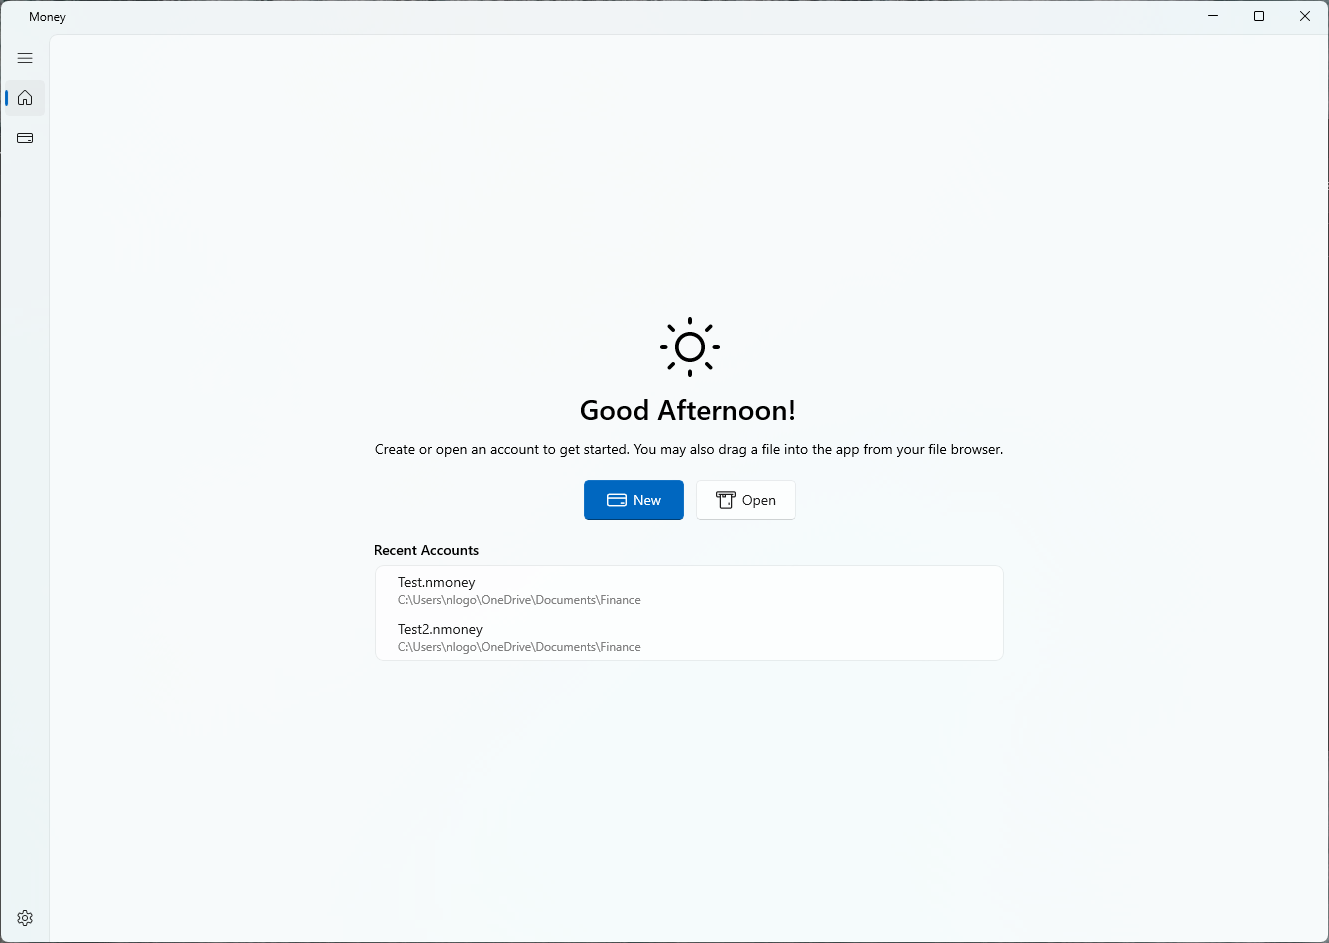
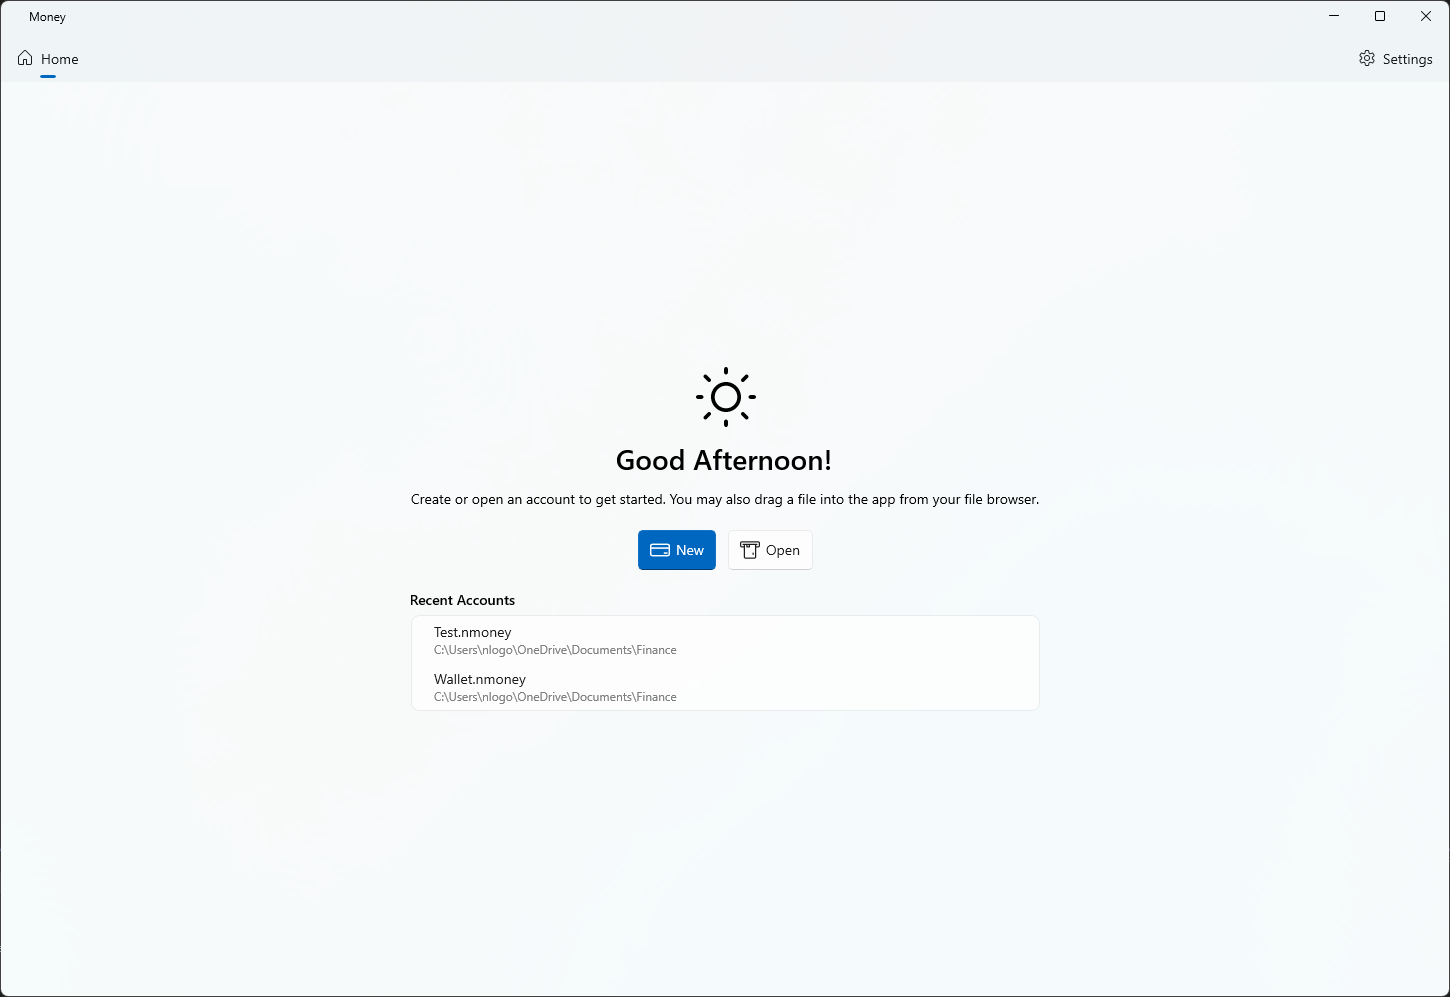
V2023.1.0-beta2

diff --git a/NickvisionMoney.GNOME/Program.cs b/NickvisionMoney.GNOME/Program.cs
@@ -70,8 +70,8 @@ public class Program
         mainWindowController.AppInfo.Name = "Nickvision Money";
         mainWindowController.AppInfo.ShortName = "Money";
         mainWindowController.AppInfo.Description = mainWindowController.Localizer["Description"];
-        mainWindowController.AppInfo.Version = "2023.1.0-beta1";
-        mainWindowController.AppInfo.Changelog = "<ul><li>Money has been completely rewritten in C#. Money should now be a lot more stable and responsive. With the C# rewrite, there is now a new version of Money available on Windows!</li><li>Added an \"Ungrouped\" row to the groups section to allow filtering transactions that don't belong to a group</li><li>Added the ability to attach a jpg/pdf of a receipt to a transaction</li><li>Made a group's description an optional field</li></ul>";
+        mainWindowController.AppInfo.Version = "2023.1.0-beta2";
+        mainWindowController.AppInfo.Changelog = "<ul><li>Money has been completely rewritten in C#. Money should now be a lot more stable and responsive. With the C# rewrite, there is now a new version of Money available on Windows!</li><li>Added an \"Ungrouped\" row to the groups section to allow filtering transactions that don't belong to a group</li><li>Added the ability to attach a jpg/pdf of a receipt to a transaction</li><li>Added the ability to hide the groups section</li><li>Made a group's description an optional field</li></ul>";
         mainWindowController.AppInfo.GitHubRepo = new Uri("https://github.com/nlogozzo/NickvisionMoney");
         mainWindowController.AppInfo.IssueTracker = new Uri("https://github.com/nlogozzo/NickvisionMoney/issues/new");
         mainWindowController.AppInfo.SupportUrl = new Uri("https://github.com/nlogozzo/NickvisionMoney/discussions");

diff --git a/NickvisionMoney.WinUI/App.xaml.cs b/NickvisionMoney.WinUI/App.xaml.cs
@@ -20,8 +20,8 @@ public partial class App : Application
         _mainWindowController.AppInfo.Name = "Nickvision Money";
         _mainWindowController.AppInfo.ShortName = "Money";
         _mainWindowController.AppInfo.Description = _mainWindowController.Localizer["Description"];
-        _mainWindowController.AppInfo.Version = "2023.1.0-beta1";
-        _mainWindowController.AppInfo.Changelog = "- Money has been completely rewritten in C#. Money should now be a lot more stable and responsive. With the C# rewrite, there is now a new version of Money available on Windows!\n- Added an \"Ungrouped\" row to the groups section to allow filtering transactions that don't belong to a group\n- Added the ability to attach a jpg/pdf of a receipt to a transaction\n- Made a group's description an optional field";
+        _mainWindowController.AppInfo.Version = "2023.1.0-beta2";
+        _mainWindowController.AppInfo.Changelog = "- Money has been completely rewritten in C#. Money should now be a lot more stable and responsive. With the C# rewrite, there is now a new version of Money available on Windows!\n- Added an \"Ungrouped\" row to the groups section to allow filtering transactions that don't belong to a group\n- Added the ability to attach a jpg/pdf of a receipt to a transaction\n- Made a group's description an optional field\n- UI Improvements";
         _mainWindowController.AppInfo.GitHubRepo = new Uri("https://github.com/nlogozzo/NickvisionMoney");
         _mainWindowController.AppInfo.IssueTracker = new Uri("https://github.com/nlogozzo/NickvisionMoney/issues/new");
         _mainWindowController.AppInfo.SupportUrl = new Uri("https://github.com/nlogozzo/NickvisionMoney/discussions");
